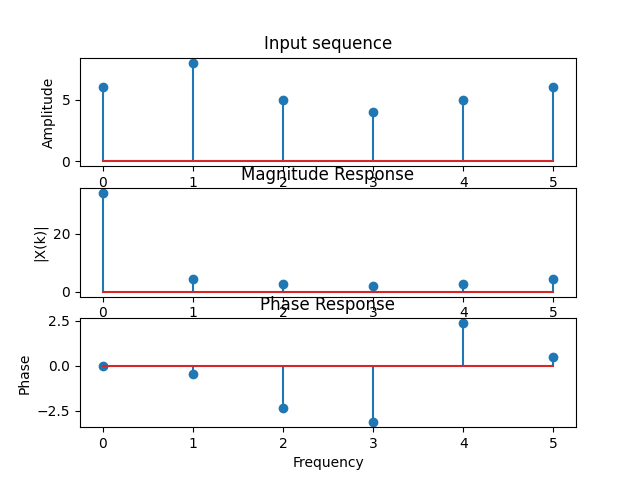
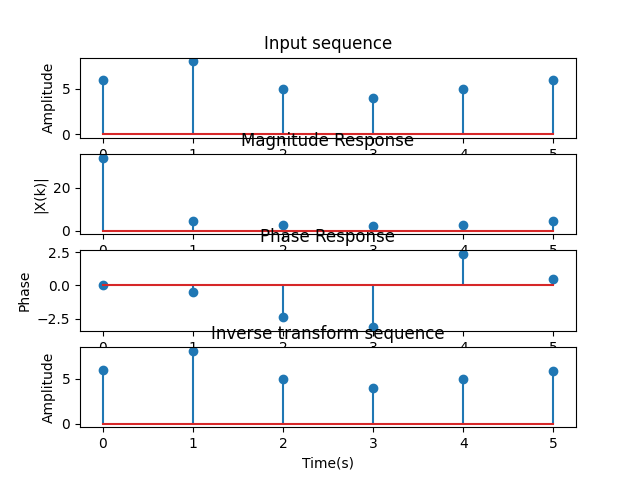
end graphs and inverse

diff --git a/dft.py b/dft.py
@@ -25,29 +25,35 @@ def dft (signal, inverse=False):
     return np.round(out)
 
 
-def plot(original, transformed, fname):
+def plot(original, transformed, inverse, fname):
     plt.figure()
-    plt.subplot(311)
+    plt.subplot(411)
     plt.stem(range(len(original)), original, linefmt='-')
     plt.xlabel('Time(s)')
     plt.ylabel('Amplitude')
     plt.title('Input sequence')
     f = range(len(transformed))
     m = np.absolute(transformed)
-    plt.subplot(312)
+    plt.subplot(412)
     plt.stem(f, m, linefmt='-')
     plt.xlabel('Frequency')
     plt.ylabel('|X(k)|')
     plt.title('Magnitude Response')
-    plt.subplot(313)
+    plt.subplot(413)
     p = np.angle(transformed)
     plt.stem(f, p, linefmt='-')
     plt.xlabel('Frequency')
     plt.ylabel('Phase')
     plt.title('Phase Response')
+    plt.subplot(414)
+    plt.stem(range(len(inverse)), inverse, linefmt='-')
+    plt.xlabel('Time(s)')
+    plt.ylabel('Amplitude')
+    plt.title('Inverse transform sequence')
     plt.savefig(fname)
     plt.show()
 
 sig = np.array([6, 8, 5, 4, 5, 6])
 sig_dft = dft(sig)
-plot(sig, sig_dft, "dft_py.png")
+inv_dft = dft(sig_dft, inverse=True)
+plot(sig, sig_dft, inv_dft, "dft_py.png")

diff --git a/fft.m b/fft.m
@@ -3,22 +3,28 @@ N=6;
 x=[6 8 5 4 5 6];
 
 t=0:N-1;
-subplot(311)
+subplot(411)
 stem(t,x);
 xlabel('Time (s)');
 ylabel('Amplitude');
 title('Input sequence')
 
-subplot(312); 
+subplot(412); 
 stem(0:N-1,abs(fft(x)));  
 xlabel('Frequency');
 ylabel('|X(k)|');
 title('Magnitude Response'); 
 
-subplot(313); 
+subplot(413); 
 stem(0:N-1,angle(fft(x)));
 xlabel('Frequency');
 ylabel('Phase');
 title('Phase Response'); 
+
+subplot(414)
+stem(t,ifft(fft(x)));
+xlabel('Time (s)');
+ylabel('Amplitude');
+title('Inverse transform sequence')
 
 saveas(f, 'fft_m.png');

diff --git a/README.md b/README.md
@@ -1,2 +1,19 @@
 # Fourier
-AB1 de PDS
+
+Implementação da Transformada Discreta de Fourier e comparação com a transformada rápida de Fourier implementada no matlab.
+
+Para instalar as bibliotecas utilizadas execute:
+```
+pip install -r requirements.txt 
+```
+
+Para executar o programa em python utilize:
+```
+python3 dft.py
+```
+
+Para executar o programa em matlab, abra a pasta do repositorio no matlab. E execute o programa fft.m
+
+Os gráficos com a resposta do sinal estão salvos nos arquivos .png, dft_py.png sendo a saída do programa em python e fft_m.png a do matlab
+
+Este repositório é referente a AB1 do aluno João Arthur Gaia. Da disciplina de Processamento Digital de Sinais, ministrada pelo professor Thiago Cordeiro.
